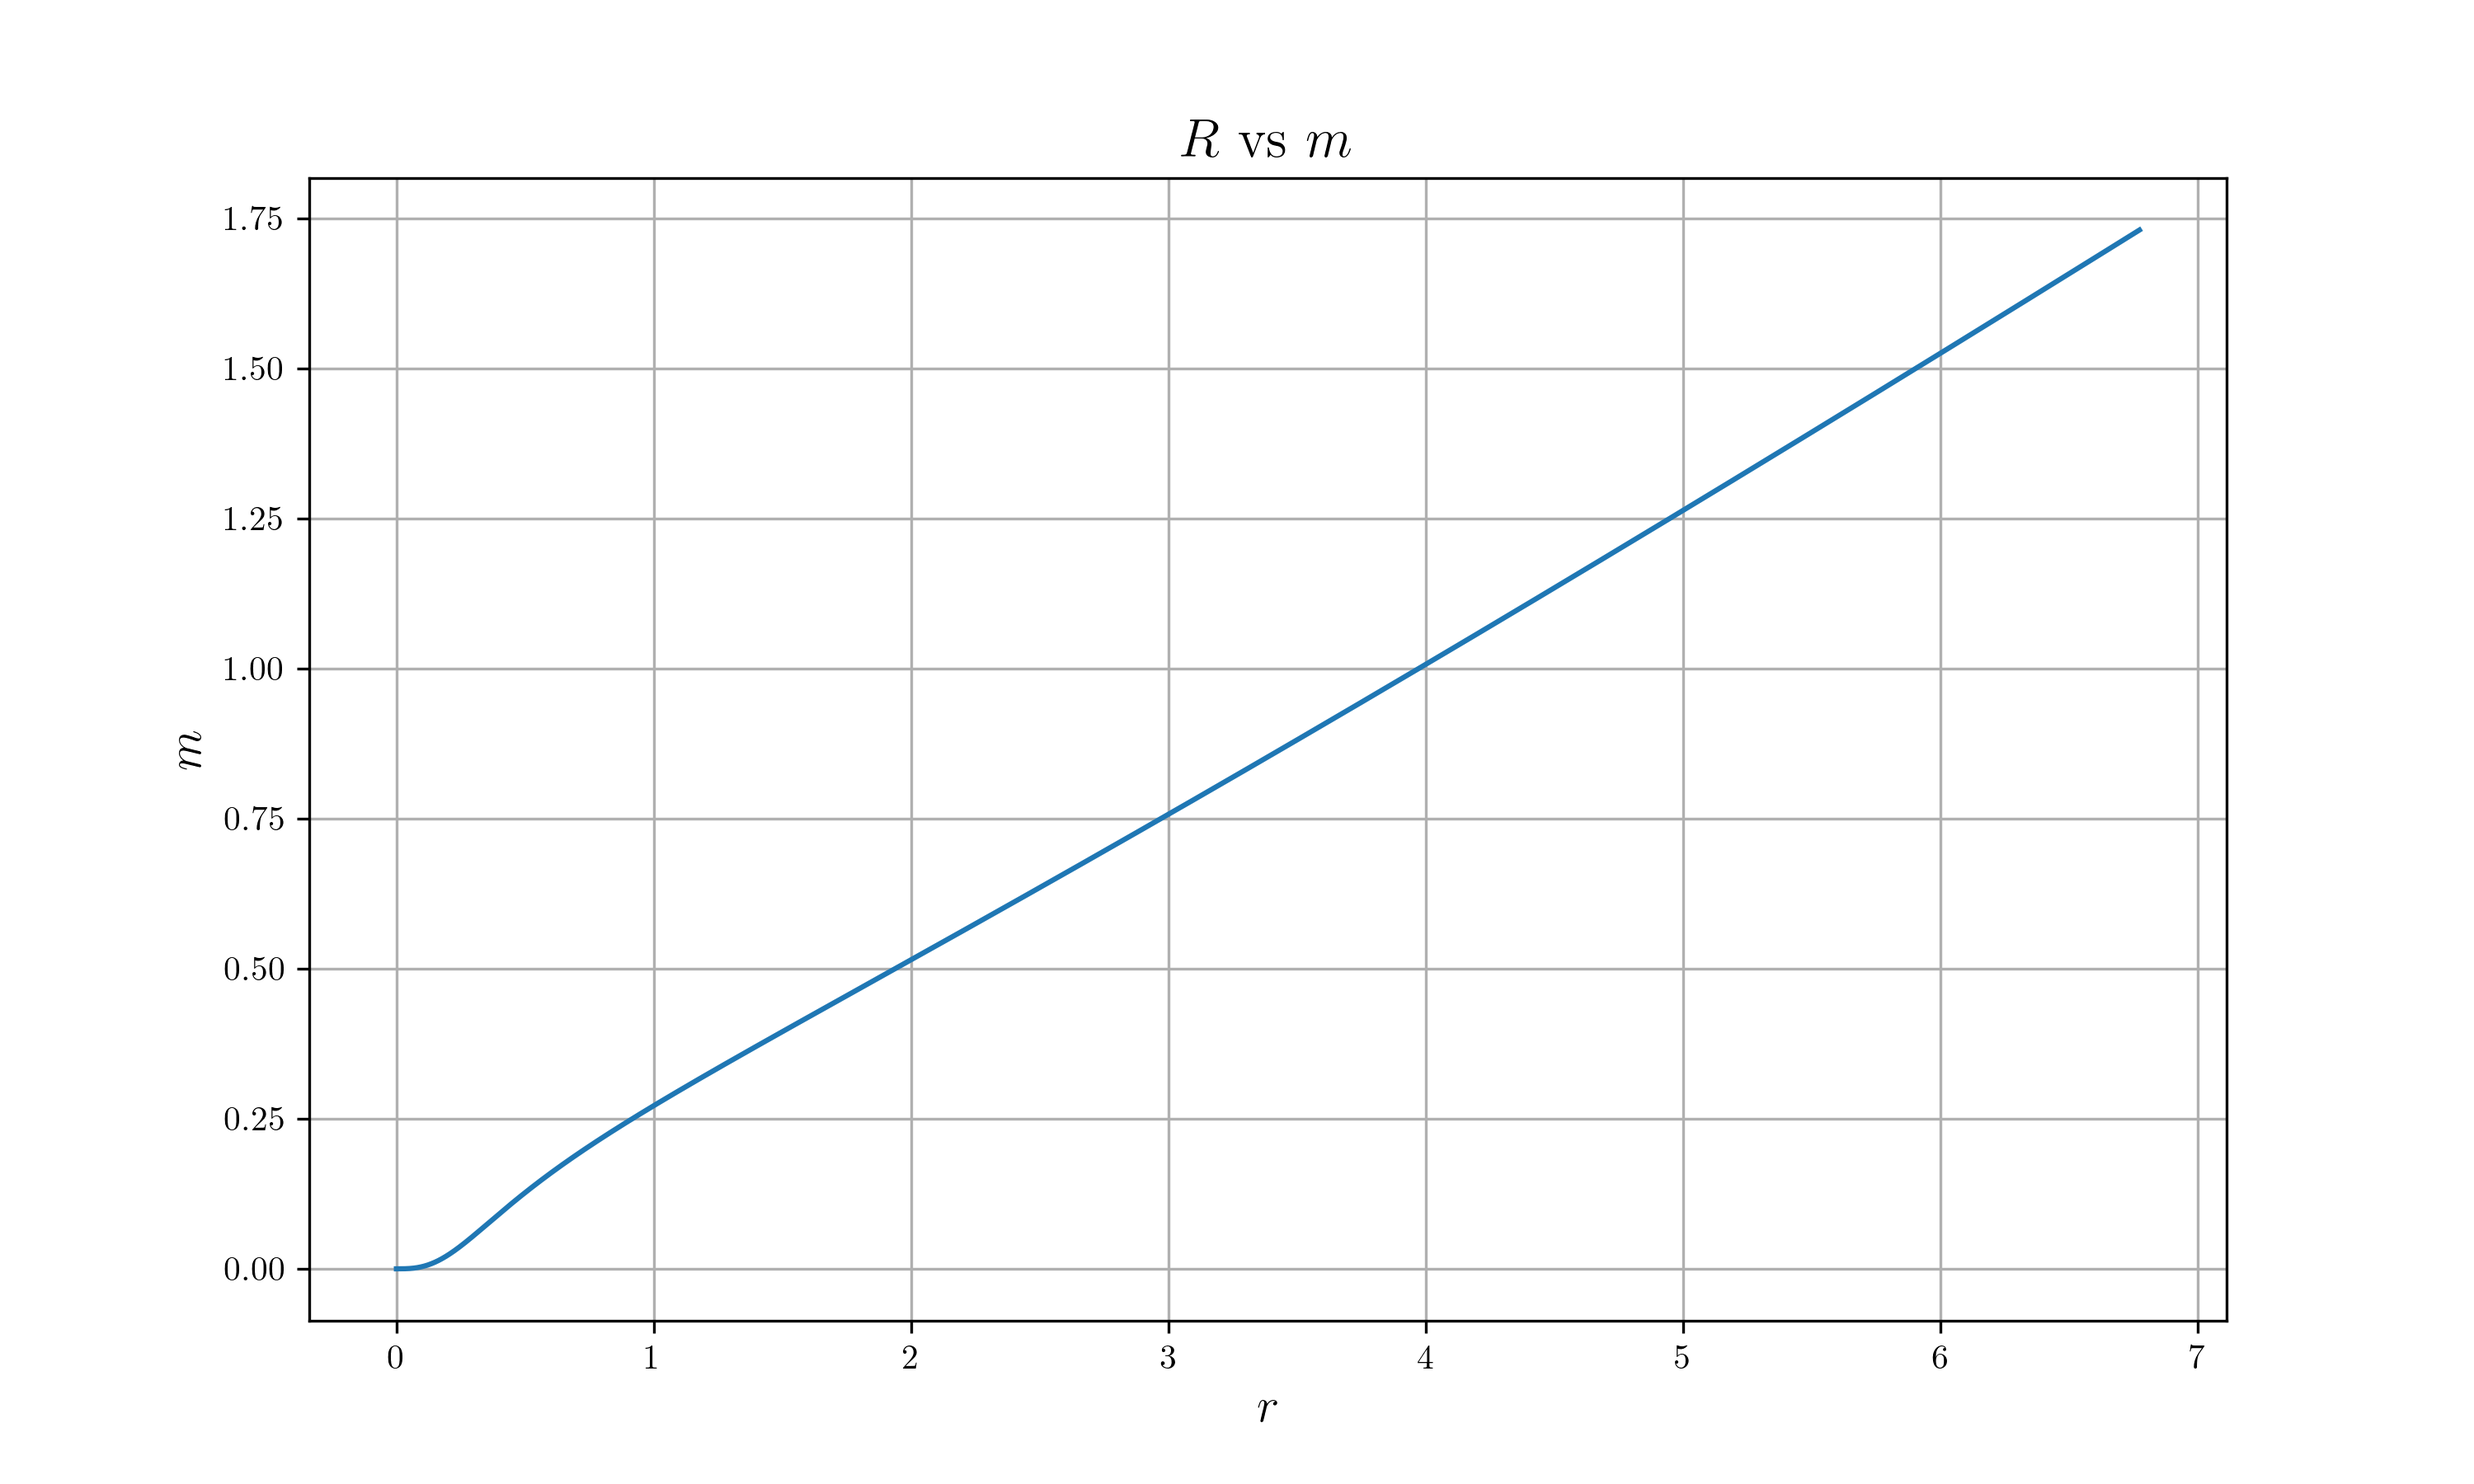
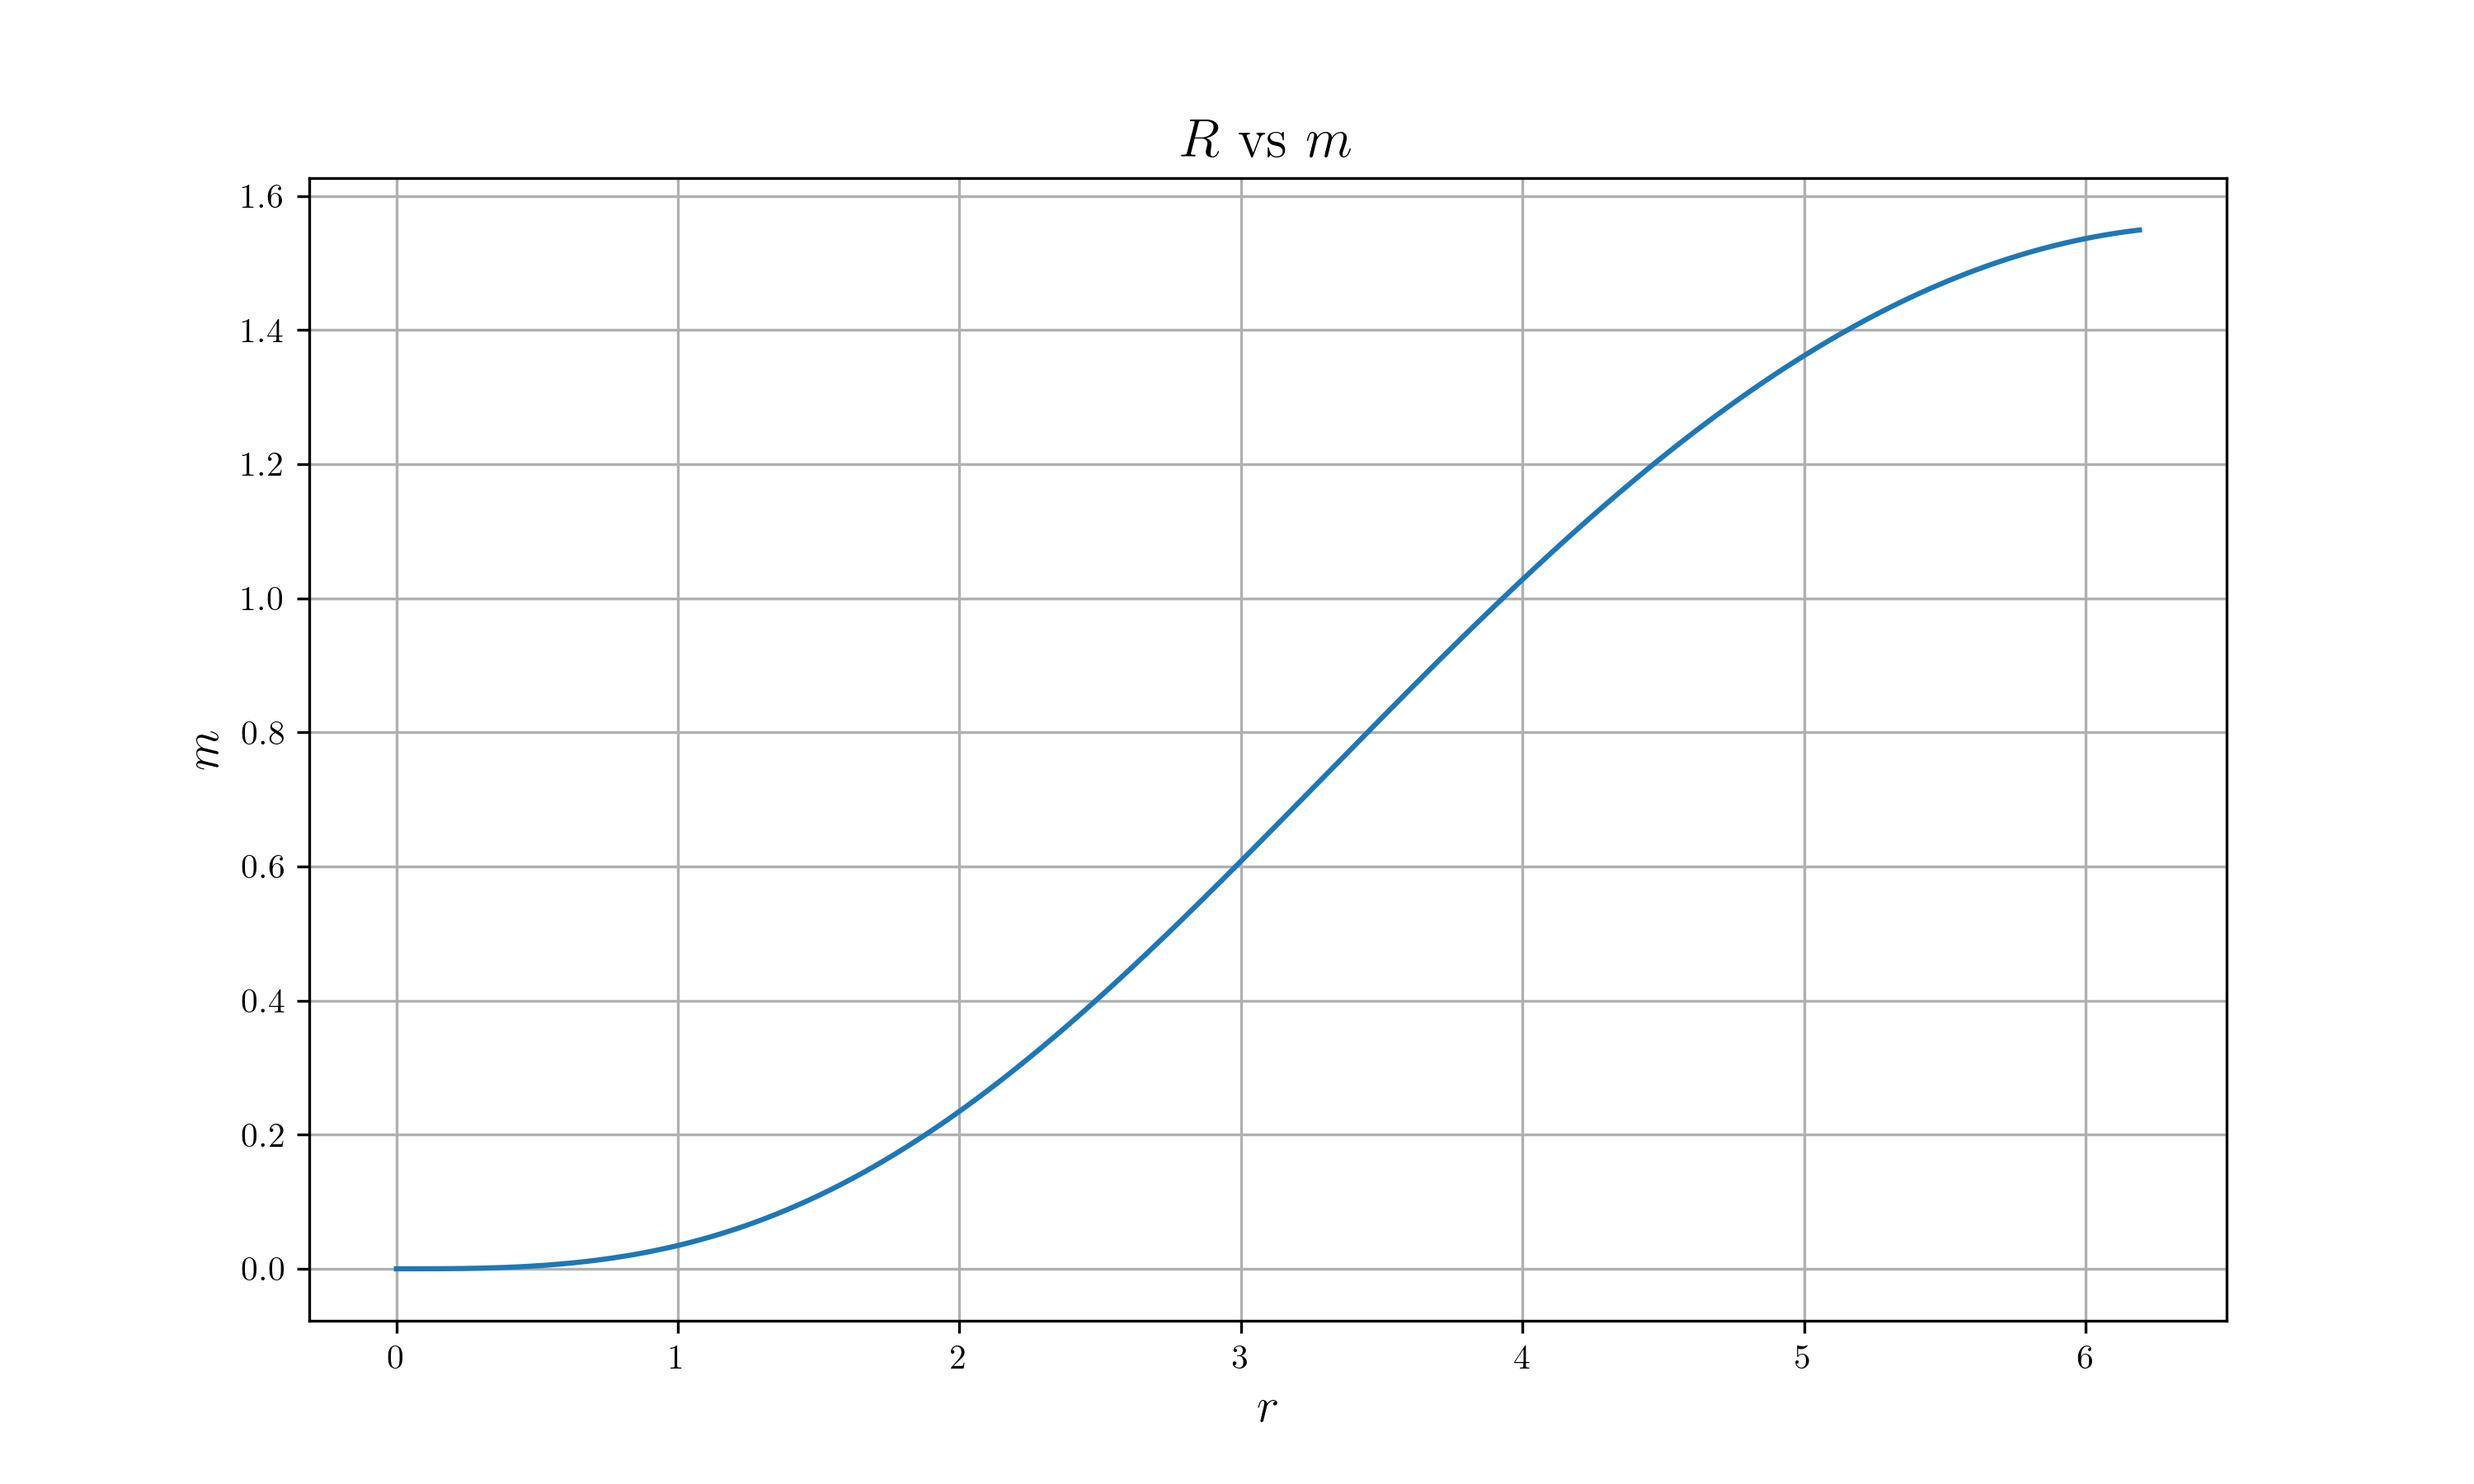
Great performance & Proper K

diff --git a/src/main.rs b/src/main.rs
@@ -8,7 +8,7 @@ use std::f64::consts::PI;
 use NSCool::tov::eos::*;
 use inline_python::python;
 
-pub const K: f64 = 30000f64;
+pub const K: f64 = 100f64;
 pub const Gamma: f64 = 2f64;
 
 fn main() {
@@ -32,12 +32,14 @@ fn main() {
     let mut tov_solver = ExplicitODE::new(tov_polytrope);
     tov_solver
         .set_step_size(1e-5*r_step)
-        .set_times(100_000)
+        .set_times(200_000)
         .set_method(ExMethod::RK4)
-        .set_initial_condition(init_state);
+        .set_initial_condition(init_state)
+        .set_stop_condition(stop_by_p);
 
     // Integration
     let results = tov_solver.integrate();
+    println!("Integrate finish");
 
     // Prepare vectors to input Python
     let result_r = results.col(0);
@@ -100,4 +102,9 @@ pub fn tov_polytrope(st: &mut State<f64>) {
     } else {
         dx[1] = -(eps + p) * (m + 4f64*PI*r.powi(3)*p) / (r * (r - 2f64*m)) * rho / (p * Gamma);
     }
+}
+
+pub fn stop_by_p(st: &ExplicitODE) -> bool {
+    let rho = st.get_state().value[1];
+    (K*rho.powf(Gamma) - 0f64).abs() < 1e-6
 }
